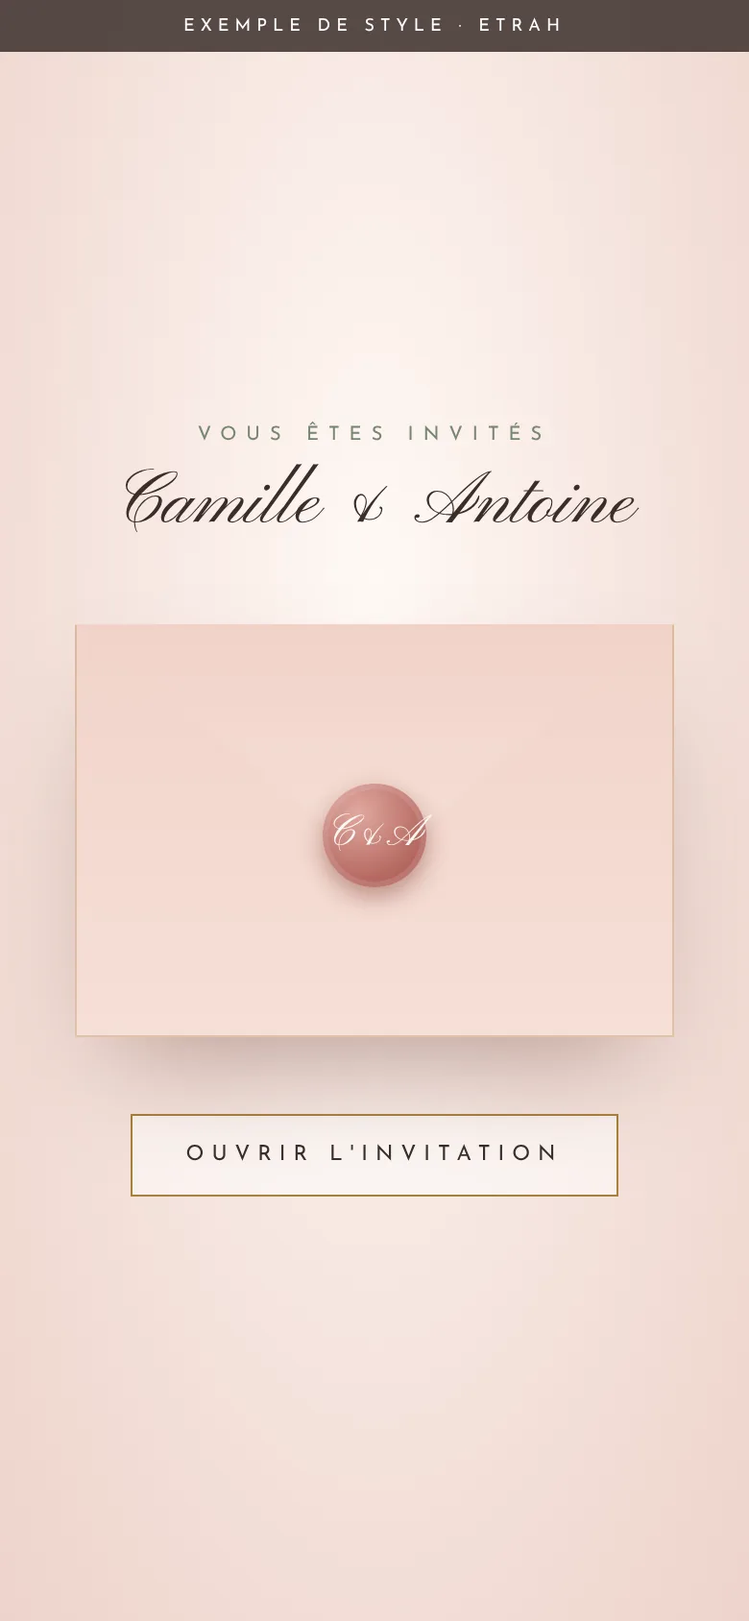
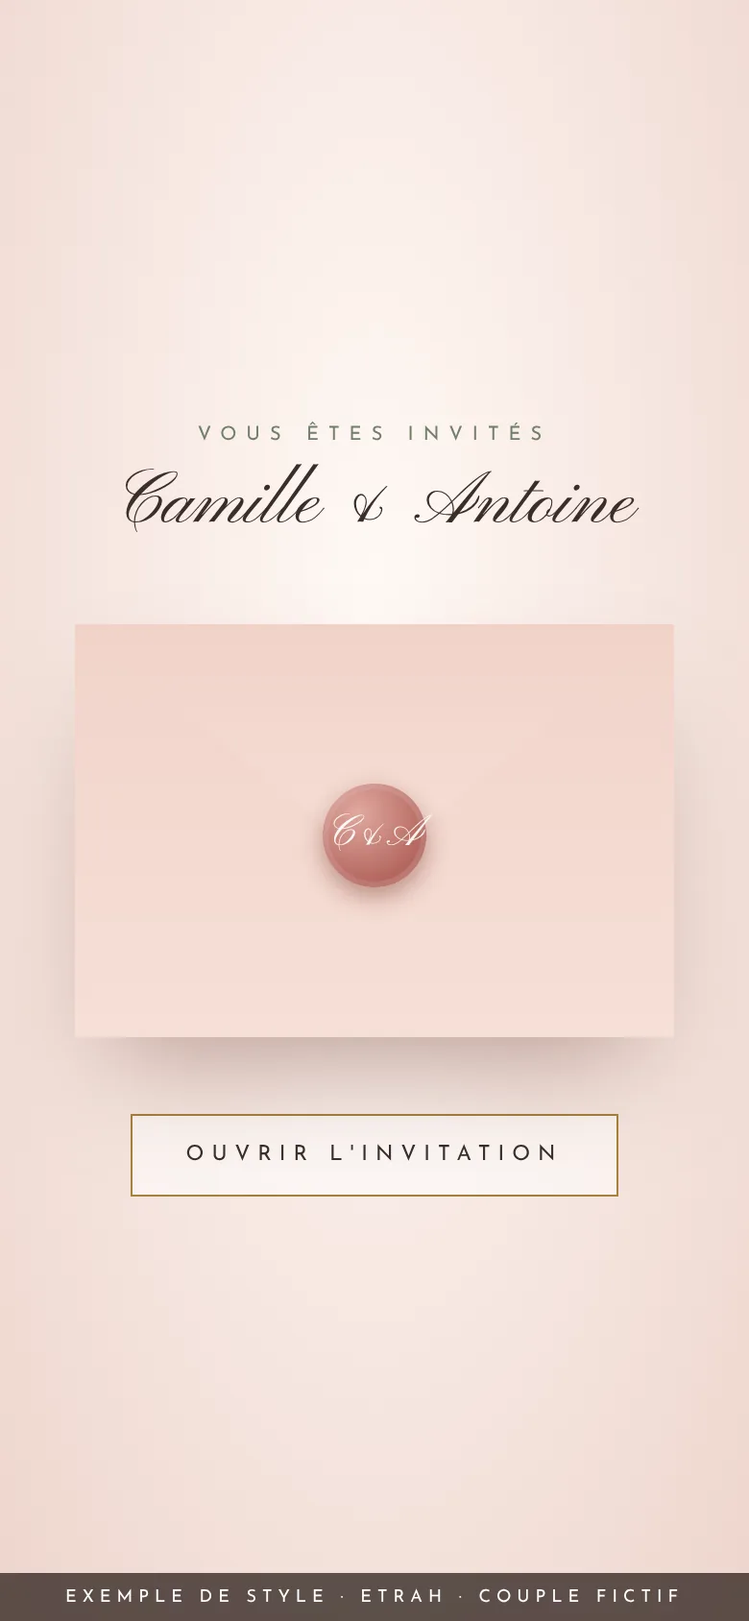
Rebuild romantic example as a full invitation site (arch frame, timeline, menu, dress code, hotels, RSVP)
Claude-Session: https://claude.ai/code/session_01EQMxFqz27Wc8jiHy65ghqU

Changed region(s): [[0.0, 0.955, 1.0, 1.0], [0.0, 0.0, 1.0, 0.0308]]

diff --git a/exemple-romantique.html b/exemple-romantique.html
@@ -10,27 +10,39 @@
 @font-face{font-family:'Cormorant Garamond';font-style:italic;font-weight:300 600;font-display:swap;src:url(fonts/cormorant-italic.woff) format('woff')}
 @font-face{font-family:'Josefin Sans';font-style:normal;font-weight:300 600;font-display:swap;src:url(fonts/josefin.woff) format('woff')}
 @font-face{font-family:'Pinyon Script';font-style:normal;font-weight:400;font-display:swap;src:url(fonts/pinyon.woff) format('woff')}
-:root{--ivory:#fbf6f0;--paper:#fffdf9;--blush:#f2ddd6;--blush2:#e8c9c0;--rose:#b3665e;--sage:#76866f;--ink:#3a2e2a;--ink2:#665650;--gold:#a8823a;--gold2:#cfa95a}
+:root{--ivory:#fbf7f2;--paper:#fffdf9;--blush:#f3e0d9;--blush2:#e8c9c0;--rose:#b3665e;--sage:#6f7f68;--deep:#3d4a3a;--ink:#3a2e2a;--ink2:#665650;--gold:#a8823a;--gold2:#d3ae63}
 *{box-sizing:border-box;margin:0;padding:0}
 html{scroll-behavior:smooth}
 body{background:var(--ivory);color:var(--ink);font-family:'Cormorant Garamond',serif;font-size:18px;line-height:1.7;overflow-x:hidden}
 body.lock{overflow:hidden;height:100vh}
-.tag{position:fixed;top:0;left:0;right:0;z-index:60;text-align:center;font-family:'Josefin Sans',sans-serif;font-size:9px;letter-spacing:3px;text-transform:uppercase;color:#fff;background:rgba(58,46,42,.85);padding:6px 8px}
+.tag{position:fixed;bottom:0;left:0;right:0;z-index:70;text-align:center;font-family:'Josefin Sans',sans-serif;font-size:9px;letter-spacing:3px;text-transform:uppercase;color:#fff;background:rgba(58,46,42,.82);padding:5px 8px}
 svg.br{position:absolute;pointer-events:none;color:var(--sage)}
+.ico{width:22px;height:22px;fill:none;stroke:currentColor;stroke-width:1.3;stroke-linecap:round;stroke-linejoin:round}
+
+/* ── Barre ── */
+.bar{position:fixed;top:0;left:0;right:0;z-index:40;display:flex;justify-content:space-between;align-items:center;padding:12px 18px;background:linear-gradient(to bottom,rgba(251,247,242,.95),rgba(251,247,242,0));opacity:0;transition:opacity .8s}
+body:not(.lock) .bar{opacity:1}
+.mono{font-family:'Pinyon Script',cursive;font-size:26px;color:var(--ink);text-decoration:none}
+.mbtn{width:42px;height:42px;border:1px solid rgba(168,130,58,.5);border-radius:50%;background:rgba(255,253,249,.8);cursor:pointer;display:grid;place-items:center}
+.mbtn i{display:block;width:16px;height:1px;background:var(--ink);box-shadow:0 5px 0 var(--ink),0 -5px 0 var(--ink)}
+.menu{position:fixed;inset:0;z-index:45;background:rgba(251,247,242,.97);display:flex;flex-direction:column;align-items:center;justify-content:center;gap:6px;opacity:0;visibility:hidden;transition:opacity .4s,visibility .4s}
+.menu.on{opacity:1;visibility:visible}
+.menu a{font-family:'Cormorant Garamond',serif;font-size:30px;color:var(--ink);text-decoration:none;padding:6px 14px}
+.menu a:hover{color:var(--rose)}
+.menu button{position:absolute;top:14px;right:18px;width:42px;height:42px;border-radius:50%;border:1px solid rgba(168,130,58,.5);background:none;font-size:22px;cursor:pointer;color:var(--ink)}
 
 /* ── Enveloppe ── */
-#env{position:fixed;inset:0;z-index:50;background:radial-gradient(ellipse at 50% 38%,#fffaf6 0%,var(--blush) 70%,var(--blush2) 130%);display:flex;flex-direction:column;align-items:center;justify-content:center;gap:40px;transition:opacity 1.1s ease .2s,visibility 1.3s}
+#env{position:fixed;inset:0;z-index:60;background:radial-gradient(ellipse at 50% 38%,#fffaf6 0%,var(--blush) 70%,var(--blush2) 130%);display:flex;flex-direction:column;align-items:center;justify-content:center;gap:40px;transition:opacity 1.1s ease .2s,visibility 1.3s}
 #env.gone{opacity:0;visibility:hidden}
 .scene{perspective:1200px;position:relative;width:min(320px,80vw);aspect-ratio:1.45}
-.env{position:absolute;inset:0;transform-style:preserve-3d}
+.env{position:absolute;inset:0}
 .back{position:absolute;inset:0;background:linear-gradient(160deg,#f3d9d1,#ecc9bf);border-radius:3px;box-shadow:0 30px 60px -22px rgba(110,60,50,.5)}
 .letter{position:absolute;left:7%;right:7%;bottom:6%;height:88%;background:var(--paper);border:1px solid rgba(168,130,58,.35);display:flex;flex-direction:column;align-items:center;justify-content:center;text-align:center;transition:transform 1.1s cubic-bezier(.5,0,.2,1) .7s;padding:10px;z-index:2}
 .letter .l1{font-family:'Josefin Sans',sans-serif;font-size:8px;letter-spacing:4px;text-transform:uppercase;color:var(--sage)}
 .letter .l2{font-family:'Pinyon Script',cursive;font-size:30px;line-height:1.1;color:var(--ink);margin:6px 0}
 .letter .l3{font-family:'Josefin Sans',sans-serif;font-size:8px;letter-spacing:3px;text-transform:uppercase;color:var(--ink2)}
-.front{position:absolute;inset:0;z-index:3;background:linear-gradient(to top,#f6dfd7,#f1d3c9);clip-path:polygon(0 0,50% 56%,100% 0,100% 100%,0 100%);box-shadow:inset 0 0 0 1px rgba(168,130,58,.3)}
-.front2{position:absolute;inset:0;z-index:3;background:linear-gradient(135deg,#f3d6cc,#efcdc2);clip-path:polygon(0 0,0 100%,52% 56%);opacity:.0}
-.flap{position:absolute;left:0;right:0;top:0;height:58%;z-index:4;background:linear-gradient(to bottom,#f1d2c8,#f6dfd7);clip-path:polygon(0 0,100% 0,50% 100%);transform-origin:top;transition:transform .9s cubic-bezier(.6,0,.2,1),z-index 0s .45s;box-shadow:0 2px 0 rgba(168,130,58,.35)}
+.front{position:absolute;inset:0;z-index:3;background:linear-gradient(to top,#f6dfd7,#f1d3c9);clip-path:polygon(0 0,50% 56%,100% 0,100% 100%,0 100%)}
+.flap{position:absolute;left:0;right:0;top:0;height:58%;z-index:4;background:linear-gradient(to bottom,#f1d2c8,#f6dfd7);clip-path:polygon(0 0,100% 0,50% 100%);transform-origin:top;transition:transform .9s cubic-bezier(.6,0,.2,1),z-index 0s .45s}
 .seal{position:absolute;left:50%;top:51%;width:54px;height:54px;margin:-27px 0 0 -27px;border-radius:50%;z-index:5;background:radial-gradient(circle at 34% 28%,#e0a89f,var(--rose) 70%);display:grid;place-items:center;color:rgba(255,255,255,.92);font-family:'Pinyon Script',cursive;font-size:23px;box-shadow:0 5px 12px rgba(120,50,40,.45),inset 0 0 0 3px rgba(255,255,255,.12);transition:opacity .35s,transform .5s}
 .opening .flap{transform:rotateX(180deg);z-index:1}
 .opening .seal{opacity:0;transform:scale(.6)}
@@ -41,60 +53,114 @@ svg.br{position:absolute;pointer-events:none;color:var(--sage)}
 .env-btn:hover,.env-btn:focus-visible{background:var(--gold);color:#fff;outline:none}
 .opening .env-btn,.opening .env-names{opacity:0}
 
-/* ── Pétales ── */
+/* ── Hero ── */
+section{padding:96px 24px;text-align:center;position:relative;overflow:hidden}
+.hero{min-height:100vh;display:flex;flex-direction:column;justify-content:center;align-items:center;background:radial-gradient(ellipse at 50% 30%,#fffdf9 0%,var(--ivory) 55%,var(--blush) 160%);padding:90px 24px}
+.hero .frame{position:absolute;left:16px;right:16px;top:16px;bottom:16px;border:1px solid rgba(168,130,58,.4);border-radius:999px 999px 0 0;pointer-events:none}
+.hero .frame::before{content:"";position:absolute;inset:9px;border:1px solid rgba(168,130,58,.22);border-radius:999px 999px 0 0}
+.corner{position:absolute;width:34px;height:34px;border:1px solid var(--gold);opacity:.7}
+.c1{left:16px;bottom:16px;border-width:0 0 1px 1px}.c2{right:16px;bottom:16px;border-width:0 1px 1px 0}
 .petals{position:absolute;inset:0;overflow:hidden;pointer-events:none}
-.petals i{position:absolute;top:-30px;width:14px;height:18px;background:radial-gradient(circle at 30% 30%,#f7e1db,var(--blush2));border-radius:80% 0 80% 0;opacity:.75;animation:fall linear infinite}
+.petals i{position:absolute;top:-30px;background:radial-gradient(circle at 30% 30%,#f7e1db,var(--blush2));border-radius:80% 0 80% 0;opacity:.75;animation:fall linear infinite}
 @keyframes fall{0%{transform:translate3d(0,-30px,0) rotate(0)}50%{transform:translate3d(30px,52vh,0) rotate(180deg)}100%{transform:translate3d(-20px,108vh,0) rotate(360deg)}}
-
-/* ── Sections ── */
-section{padding:92px 24px;text-align:center;position:relative;overflow:hidden}
-.hero{min-height:100vh;display:flex;flex-direction:column;justify-content:center;align-items:center;background:radial-gradient(ellipse at 50% 28%,#fffdf9 0%,var(--ivory) 58%,var(--blush) 150%);padding-top:100px}
 .hero .in{position:relative;z-index:2}
-.save{font-family:'Josefin Sans',sans-serif;font-size:11px;letter-spacing:7px;text-transform:uppercase;color:var(--sage);margin-bottom:10px}
-.names{font-family:'Pinyon Script',cursive;font-size:clamp(58px,16vw,100px);line-height:1;color:var(--ink);margin:14px 0}
-.amp{font-family:'Cormorant Garamond',serif;font-style:italic;color:var(--rose);font-size:.38em;display:block;margin:6px 0}
-.lead{font-style:italic;font-size:20px;color:var(--ink2);max-width:360px;margin:6px auto 0}
-.date{display:inline-flex;align-items:center;gap:16px;margin-top:34px;font-family:'Josefin Sans',sans-serif;font-size:12px;letter-spacing:5px;text-transform:uppercase;color:var(--ink)}
+.save{font-family:'Josefin Sans',sans-serif;font-size:11px;letter-spacing:7px;text-transform:uppercase;color:var(--sage)}
+.names{font-family:'Pinyon Script',cursive;font-size:clamp(60px,17vw,104px);line-height:1;color:var(--ink);margin:16px 0}
+.amp{font-family:'Cormorant Garamond',serif;font-style:italic;color:var(--rose);font-size:.36em;display:block;margin:8px 0}
+.lead{font-style:italic;font-size:20px;color:var(--ink2);max-width:330px;margin:6px auto 0}
+.date{display:inline-flex;align-items:center;gap:16px;margin-top:34px;font-family:'Josefin Sans',sans-serif;font-size:12px;letter-spacing:5px;text-transform:uppercase}
 .date b{display:block;width:1px;height:34px;background:var(--gold)}
 .date span{text-align:center;line-height:1.7}
-.orn{display:flex;align-items:center;justify-content:center;gap:12px;margin:26px 0 30px}
+.scroll{margin-top:40px;font-family:'Josefin Sans',sans-serif;font-size:9px;letter-spacing:5px;text-transform:uppercase;color:var(--ink2)}
+.scroll::after{content:"";display:block;width:1px;height:38px;margin:10px auto 0;background:linear-gradient(var(--gold),transparent)}
+
+/* ── Titres ── */
+.orn{display:flex;align-items:center;justify-content:center;gap:12px;margin:22px 0 34px}
 .orn i{width:56px;height:1px;background:linear-gradient(to right,transparent,var(--gold))}
 .orn i:last-child{transform:scaleX(-1)}
 .orn b{width:6px;height:6px;border:1px solid var(--gold);transform:rotate(45deg)}
-h2{font-weight:400;font-size:clamp(32px,8.4vw,46px);line-height:1.14}
+h2{font-weight:400;font-size:clamp(32px,8.6vw,46px);line-height:1.14}
 h2 em{color:var(--rose)}
 .eb{font-family:'Josefin Sans',sans-serif;font-size:10px;letter-spacing:6px;text-transform:uppercase;color:var(--sage);margin-bottom:14px}
 .alt{background:var(--paper)}
-.arch{position:absolute;left:50%;top:-1px;transform:translateX(-50%);width:120px;height:26px;background:var(--ivory);border-radius:0 0 120px 120px}
-.alt .arch{background:var(--ivory)}
-.cd{display:flex;justify-content:center;gap:14px;margin-top:10px}
-.cd div{width:80px;padding:20px 4px 16px;background:var(--paper);border:1px solid rgba(168,130,58,.3);border-radius:46px 46px 4px 4px;box-shadow:0 14px 26px -18px rgba(110,60,50,.5)}
-.cd b{display:block;font-size:36px;font-weight:400;color:var(--rose);line-height:1}
-.cd span{font-family:'Josefin Sans',sans-serif;font-size:9px;letter-spacing:3px;text-transform:uppercase;color:var(--ink2)}
-.prog{max-width:440px;margin:34px auto 0;text-align:left;position:relative;padding-left:34px}
-.prog::before{content:"";position:absolute;left:5px;top:10px;bottom:10px;width:1px;background:linear-gradient(to bottom,transparent,var(--gold) 12%,var(--gold) 88%,transparent)}
-.prog div{position:relative;padding:14px 0 22px}
-.prog div::before{content:"";position:absolute;left:-34px;top:22px;width:11px;height:11px;border:1px solid var(--gold);background:var(--ivory);transform:rotate(45deg)}
+.deep{background:var(--deep);color:#f4ede4}
+.deep h2 em{color:#e6b9ae}.deep .eb{color:#b9c6b1}.deep .orn i{background:linear-gradient(to right,transparent,var(--gold2))}.deep .orn i:last-child{transform:scaleX(-1)}.deep .orn b{border-color:var(--gold2)}
+.blushbg{background:linear-gradient(var(--ivory),var(--blush))}
+
+/* ── Compte à rebours ── */
+.cd{display:flex;justify-content:center;gap:12px}
+.cd div{width:78px;padding:20px 4px 16px;border:1px solid rgba(211,174,99,.55);border-radius:46px 46px 4px 4px;background:rgba(255,255,255,.05)}
+.cd b{display:block;font-size:36px;font-weight:400;color:#f4ede4;line-height:1}
+.cd span{font-family:'Josefin Sans',sans-serif;font-size:9px;letter-spacing:3px;text-transform:uppercase;color:#b9c6b1}
+
+/* ── Programme ── */
+.prog{max-width:440px;margin:10px auto 0;text-align:left;position:relative;padding-left:62px}
+.prog::before{content:"";position:absolute;left:22px;top:20px;bottom:20px;width:1px;background:linear-gradient(to bottom,transparent,var(--gold) 10%,var(--gold) 90%,transparent)}
+.prog div{position:relative;padding:8px 0 26px}
+.prog .dot{position:absolute;left:-62px;top:6px;width:44px;height:44px;border-radius:50%;background:var(--ivory);border:1px solid var(--gold);display:grid;place-items:center;color:var(--gold)}
 .prog time{font-family:'Josefin Sans',sans-serif;font-size:12px;letter-spacing:3px;color:var(--gold)}
-.prog strong{display:block;font-weight:500;font-size:24px;line-height:1.2}
-.prog span{color:var(--ink2);font-style:italic;font-size:17px}
-.card{max-width:440px;margin:30px auto 0;padding:44px 28px 34px;border:1px solid rgba(168,130,58,.35);border-radius:200px 200px 4px 4px;background:var(--ivory);position:relative}
-.card p{color:var(--ink2)}
-.card .pin{font-family:'Pinyon Script',cursive;font-size:34px;color:var(--rose);line-height:1;margin-bottom:6px}
-form{max-width:440px;margin:30px auto 0;text-align:left}
+.prog strong{display:block;font-weight:500;font-size:25px;line-height:1.2}
+.prog span.d{color:var(--ink2);font-style:italic;font-size:17px}
+
+/* ── Lieu ── */
+.card{max-width:440px;margin:0 auto;padding:46px 26px 30px;border:1px solid rgba(168,130,58,.35);border-radius:200px 200px 4px 4px;background:var(--ivory)}
+.card .pin{font-family:'Pinyon Script',cursive;font-size:36px;color:var(--rose);line-height:1}
+.card p{color:var(--ink2);margin-top:6px}
+.badges{display:grid;grid-template-columns:1fr 1fr;gap:10px;max-width:440px;margin:14px auto 0}
+.badges div{padding:16px 10px;border:1px solid rgba(168,130,58,.28);background:var(--ivory)}
+.badges b{display:block;font-weight:500;font-size:22px;color:var(--rose);line-height:1.1}
+.badges span{font-family:'Josefin Sans',sans-serif;font-size:9px;letter-spacing:3px;text-transform:uppercase;color:var(--ink2)}
+
+/* ── Menu ── */
+.menu-l{max-width:440px;margin:0 auto;text-align:left}
+.menu-l h3{font-family:'Josefin Sans',sans-serif;font-weight:400;font-size:11px;letter-spacing:5px;text-transform:uppercase;color:var(--gold);margin:30px 0 8px;padding-bottom:10px;border-bottom:1px solid rgba(168,130,58,.3)}
+.menu-l p{padding:10px 0;border-bottom:1px solid rgba(168,130,58,.14);font-size:21px;font-weight:500;line-height:1.3}
+.menu-l p small{display:block;font-size:16px;font-style:italic;font-weight:400;color:var(--ink2)}
+
+/* ── Dress code ── */
+.dc{display:grid;grid-template-columns:1fr 1fr;gap:14px;max-width:440px;margin:0 auto}
+.dc div{border:1px solid rgba(211,174,99,.45);padding:24px 14px;background:rgba(255,255,255,.04)}
+.dc h3{font-family:'Josefin Sans',sans-serif;font-weight:400;font-size:10px;letter-spacing:5px;text-transform:uppercase;color:#e6b9ae;margin-bottom:10px}
+.dc p{font-size:17px;line-height:1.5;color:#e9e0d4}
+.sw{display:flex;justify-content:center;gap:10px;margin-top:30px}
+.sw i{width:30px;height:30px;border-radius:50%;border:1px solid rgba(255,255,255,.35)}
+
+/* ── Infos ── */
+.inf{display:grid;grid-template-columns:1fr 1fr;gap:12px;max-width:440px;margin:0 auto;text-align:left}
+.inf div{padding:22px 18px;background:var(--paper);border:1px solid rgba(168,130,58,.25)}
+.inf .ico{color:var(--rose);margin-bottom:8px}
+.inf b{display:block;font-weight:500;font-size:21px;line-height:1.2}
+.inf span{font-size:16px;font-style:italic;color:var(--ink2);line-height:1.4;display:block;margin-top:4px}
+
+/* ── Hôtels ── */
+.ht{max-width:440px;margin:0 auto;text-align:left}
+.ht div{display:flex;justify-content:space-between;align-items:center;gap:14px;padding:18px 0;border-bottom:1px solid rgba(168,130,58,.28)}
+.ht strong{font-weight:500;font-size:22px;display:block;line-height:1.2}
+.ht span{font-size:16px;font-style:italic;color:var(--ink2)}
+.ht em{font-style:normal;font-family:'Josefin Sans',sans-serif;font-size:10px;letter-spacing:2px;text-transform:uppercase;color:var(--gold);border:1px solid rgba(168,130,58,.5);padding:8px 12px;white-space:nowrap}
+.note{font-family:'Josefin Sans',sans-serif;font-size:9px;letter-spacing:2px;text-transform:uppercase;color:var(--ink2);margin-top:16px}
+
+/* ── RSVP ── */
+form{max-width:440px;margin:0 auto;text-align:left}
 label{display:block;font-family:'Josefin Sans',sans-serif;font-size:10px;letter-spacing:3px;text-transform:uppercase;color:var(--ink2);margin:20px 0 7px}
-input,textarea{width:100%;font:inherit;font-size:18px;color:var(--ink);background:var(--paper);border:0;border-bottom:1px solid rgba(168,130,58,.5);padding:11px 4px;border-radius:0}
+input[type=text],input[type=tel],textarea{width:100%;font:inherit;font-size:18px;color:var(--ink);background:var(--paper);border:0;border-bottom:1px solid rgba(168,130,58,.5);padding:11px 4px;border-radius:0}
 textarea{border:1px solid rgba(168,130,58,.35);padding:12px}
 input:focus,textarea:focus{outline:none;border-color:var(--rose);box-shadow:0 1px 0 var(--rose)}
+.cnt{display:flex;border:1px solid rgba(168,130,58,.4);background:var(--paper)}
+.cnt button{width:54px;border:0;background:none;font-size:24px;cursor:pointer;color:var(--ink)}
+.cnt output{flex:1;text-align:center;font-size:24px;line-height:50px}
 .choice{display:flex;gap:10px;margin-top:6px}
-.choice label{flex:1;margin:0;padding:14px 8px;text-align:center;border:1px solid rgba(168,130,58,.35);background:var(--paper);cursor:pointer;letter-spacing:1px;text-transform:none;font-family:'Cormorant Garamond',serif;font-size:18px;color:var(--ink);transition:background .3s}
+.choice label{flex:1;margin:0;padding:14px 8px;text-align:center;border:1px solid rgba(168,130,58,.35);background:var(--paper);cursor:pointer;letter-spacing:1px;text-transform:none;font-family:'Cormorant Garamond',serif;font-size:18px;color:var(--ink)}
 .choice input{display:none}
 .choice label:has(input:checked){background:var(--blush);border-color:var(--rose)}
 .send{width:100%;margin-top:28px;font-family:'Josefin Sans',sans-serif;font-size:11px;letter-spacing:4px;text-transform:uppercase;color:#fff;background:var(--rose);border:0;padding:17px;cursor:pointer;transition:background .3s}
 .send:hover{background:#9d554e}
-.thanks{display:none;max-width:440px;margin:30px auto 0;padding:28px;border:1px solid var(--sage);color:var(--sage);font-style:italic;font-size:21px}
-.foot{padding:60px 24px 80px;background:var(--blush);color:var(--ink2);font-style:italic;text-align:center;position:relative;overflow:hidden}
-.foot .n{font-family:'Pinyon Script',cursive;font-style:normal;font-size:40px;color:var(--ink)}
+.dl{text-align:center;font-family:'Josefin Sans',sans-serif;font-size:10px;letter-spacing:3px;text-transform:uppercase;color:var(--ink2);margin-top:18px}
+.thanks{display:none;max-width:440px;margin:0 auto;padding:28px;border:1px solid var(--sage);color:var(--sage);font-style:italic;font-size:21px}
+
+.foot{padding:70px 24px 80px;background:var(--blush);color:var(--ink2);font-style:italic;text-align:center;position:relative;overflow:hidden}
+.foot q{display:block;font-size:22px;max-width:320px;margin:0 auto 26px;quotes:none}
+.foot .n{font-family:'Pinyon Script',cursive;font-style:normal;font-size:42px;color:var(--ink)}
 .foot small{display:block;margin-top:14px;font-family:'Josefin Sans',sans-serif;font-style:normal;font-size:10px;letter-spacing:3px;text-transform:uppercase}
 .rv{opacity:0;transform:translateY(20px);transition:opacity 1s ease,transform 1s ease}
 .rv.in{opacity:1;transform:none}
@@ -104,101 +170,157 @@ input:focus,textarea:focus{outline:none;border-color:var(--rose);box-shadow:0 1p
 </style>
 </head>
 <body class="lock">
-<div class="tag">Exemple de style · Etrah</div>
+<div class="tag">Exemple de style · Etrah · couple fictif</div>
 
 <svg width="0" height="0" style="position:absolute" aria-hidden="true"><defs>
 <symbol id="branch" viewBox="0 0 200 260"><g fill="none" stroke="currentColor" stroke-width="1.2" stroke-linecap="round"><path d="M180 250C150 190 120 130 70 70C50 46 30 26 14 10"/><path d="M150 205c18-8 30-22 34-38"/><path d="M122 160c-16-6-28-20-30-36"/><path d="M96 118c16-4 30-16 36-32"/><path d="M70 78c-14-6-24-20-26-34"/></g><g fill="currentColor" fill-opacity=".18" stroke="currentColor" stroke-width=".9" stroke-opacity=".65"><ellipse cx="174" cy="176" rx="13" ry="6" transform="rotate(-50 174 176)"/><ellipse cx="96" cy="130" rx="13" ry="6" transform="rotate(50 96 130)"/><ellipse cx="136" cy="98" rx="13" ry="6" transform="rotate(-40 136 98)"/><ellipse cx="52" cy="58" rx="12" ry="5.5" transform="rotate(55 52 58)"/><ellipse cx="34" cy="26" rx="11" ry="5" transform="rotate(-35 34 26)"/></g></symbol>
 </defs></svg>
 
+<header class="bar"><a class="mono" href="#top">C&amp;A</a><button class="mbtn" id="mb" aria-label="Menu"><i></i></button></header>
+<nav class="menu" id="menu" aria-label="Sections"><button id="mc" aria-label="Fermer">×</button>
+<a href="#programme">Programme</a><a href="#lieu">Le lieu</a><a href="#menu-repas">Menu</a><a href="#tenue">Dress code</a><a href="#infos">Infos pratiques</a><a href="#hotels">Hébergements</a><a href="#rsvp">Confirmer</a></nav>
+
 <div id="env" role="dialog" aria-label="Invitation de mariage">
   <div class="env-names"><small>Vous êtes invités</small>Camille &amp; Antoine</div>
-  <div class="scene" id="scene">
-    <div class="env">
-      <div class="back"></div>
-      <div class="letter"><span class="l1">Save the date</span><span class="l2">Camille &amp; Antoine</span><span class="l3">12 · 06 · 2027</span></div>
-      <div class="front"></div>
-      <div class="flap"></div>
-      <div class="seal">C&amp;A</div>
-    </div>
-  </div>
+  <div class="scene" id="scene"><div class="env">
+    <div class="back"></div>
+    <div class="letter"><span class="l1">Save the date</span><span class="l2">Camille &amp; Antoine</span><span class="l3">12 · 06 · 2027</span></div>
+    <div class="front"></div><div class="flap"></div><div class="seal">C&amp;A</div>
+  </div></div>
   <button class="env-btn" id="open" type="button">Ouvrir l'invitation</button>
 </div>
 
-<section class="hero">
-  <svg class="br draw" style="left:-18px;top:60px;width:150px;transform:scaleX(-1)" viewBox="0 0 200 260"><use href="#branch"/></svg>
-  <svg class="br draw" style="right:-18px;bottom:30px;width:150px;transform:rotate(180deg)" viewBox="0 0 200 260"><use href="#branch"/></svg>
+<section class="hero" id="top">
+  <div class="frame"></div><div class="corner c1"></div><div class="corner c2"></div>
+  <svg class="br draw" style="left:-6px;top:90px;width:140px;transform:scaleX(-1)" viewBox="0 0 200 260"><use href="#branch"/></svg>
+  <svg class="br draw" style="right:-6px;bottom:80px;width:140px;transform:rotate(180deg)" viewBox="0 0 200 260"><use href="#branch"/></svg>
   <div class="petals" id="petals"></div>
   <div class="in">
     <p class="save rv">Save the date</p>
     <h1 class="names rv">Camille<span class="amp">&amp;</span>Antoine</h1>
     <p class="lead rv">ont la joie de vous inviter à célébrer leur mariage</p>
     <div class="date rv"><span>Samedi<br>12 juin</span><b></b><span>2027<br>Votre lieu</span></div>
+    <p class="scroll rv">Découvrir</p>
   </div>
 </section>
 
-<section class="alt">
-  <div class="arch"></div>
+<section class="deep">
   <p class="eb rv">Le grand jour approche</p>
   <h2 class="rv">Plus que <em>quelques jours</em></h2>
   <div class="orn rv"><i></i><b></b><i></i></div>
   <div class="cd rv"><div><b id="d">0</b><span>Jours</span></div><div><b id="h">0</b><span>Heures</span></div><div><b id="m">0</b><span>Min</span></div></div>
 </section>
 
-<section>
+<section id="programme">
   <p class="eb rv">Le déroulé</p>
   <h2 class="rv">Le <em>programme</em></h2>
   <div class="orn rv"><i></i><b></b><i></i></div>
   <div class="prog rv">
-    <div><time>15:00</time><strong>Cérémonie</strong><span>Dans les jardins, sous les arches fleuries</span></div>
-    <div><time>17:00</time><strong>Cocktail</strong><span>Rafraîchissements et douceurs</span></div>
-    <div><time>19:30</time><strong>Dîner</strong><span>Table dressée sous les guirlandes</span></div>
-    <div><time>22:00</time><strong>Soirée dansante</strong><span>Jusqu'au bout de la nuit</span></div>
+    <div><span class="dot"><svg class="ico" viewBox="0 0 24 24"><circle cx="9" cy="14" r="5"/><circle cx="15" cy="14" r="5"/><path d="M12 5l-2 3h4z"/></svg></span><time>15:00</time><strong>Cérémonie</strong><span class="d">Dans les jardins, sous les arches fleuries</span></div>
+    <div><span class="dot"><svg class="ico" viewBox="0 0 24 24"><path d="M7 3h10l-1 7a4 4 0 0 1-8 0z"/><path d="M12 14v7M8 21h8"/></svg></span><time>17:00</time><strong>Cocktail</strong><span class="d">Rafraîchissements et douceurs</span></div>
+    <div><span class="dot"><svg class="ico" viewBox="0 0 24 24"><path d="M6 3v7a2 2 0 0 0 4 0V3M8 10v11M17 3c-2 2-3 5-3 8h3v10"/></svg></span><time>19:30</time><strong>Dîner</strong><span class="d">Table dressée sous les guirlandes</span></div>
+    <div><span class="dot"><svg class="ico" viewBox="0 0 24 24"><path d="M9 18V6l10-2v12"/><circle cx="7" cy="18" r="2.5"/><circle cx="17" cy="16" r="2.5"/></svg></span><time>22:00</time><strong>Soirée dansante</strong><span class="d">Jusqu'au bout de la nuit</span></div>
   </div>
 </section>
 
-<section class="alt">
+<section class="alt" id="lieu">
   <p class="eb rv">Où nous retrouver</p>
   <h2 class="rv">Le <em>lieu</em></h2>
   <div class="orn rv"><i></i><b></b><i></i></div>
-  <div class="card rv"><div class="pin">Votre domaine</div><p>Votre adresse, votre plan d'accès, vos hôtels conseillés et vos informations pratiques apparaissent ici, sur mesure.</p></div>
+  <div class="card rv"><div class="pin">Votre domaine</div><p>Votre adresse et votre plan d'accès apparaissent ici, avec un lien vers l'itinéraire.</p></div>
+  <div class="badges rv"><div><b>150</b><span>Invités</span></div><div><b>Gratuit</b><span>Parking</span></div><div><b>Voiturier</b><span>Disponible</span></div><div><b>PMR</b><span>Accessible</span></div></div>
 </section>
 
-<section>
+<section class="blushbg" id="menu-repas">
+  <p class="eb rv">Ce soir on se régale</p>
+  <h2 class="rv">Le <em>menu</em></h2>
+  <div class="orn rv"><i></i><b></b><i></i></div>
+  <div class="menu-l rv">
+    <h3>Pour commencer</h3>
+    <p>Velouté de petits pois<small>Crème de menthe, éclats de noisette</small></p>
+    <p>Tartare de saumon<small>Citron vert, aneth, pain grillé</small></p>
+    <h3>Plats</h3>
+    <p>Filet de bœuf rôti<small>Jus corsé, gratin dauphinois</small></p>
+    <p>Pavé de cabillaud<small>Beurre blanc, légumes de saison</small></p>
+    <h3>Douceurs</h3>
+    <p>Pièce montée<small>Vanille, fruits rouges</small></p>
+    <p>Buffet de mignardises<small>Macarons, tartelettes, chocolats</small></p>
+  </div>
+</section>
+
+<section class="deep" id="tenue">
+  <p class="eb rv">Pour être au diapason</p>
+  <h2 class="rv">Le <em>dress code</em></h2>
+  <div class="orn rv"><i></i><b></b><i></i></div>
+  <div class="dc rv"><div><h3>Elles</h3><p>Robe longue ou midi, tons pastel ou floraux</p></div><div><h3>Eux</h3><p>Costume clair ou sombre, cravate ou nœud papillon</p></div></div>
+  <div class="sw rv" aria-label="Palette"><i style="background:#f3e0d9"></i><i style="background:#c9a39a"></i><i style="background:#a9b69f"></i><i style="background:#f4ede4"></i><i style="background:#d3ae63"></i></div>
+</section>
+
+<section id="infos">
+  <p class="eb rv">Pour votre confort</p>
+  <h2 class="rv">Infos <em>pratiques</em></h2>
+  <div class="orn rv"><i></i><b></b><i></i></div>
+  <div class="inf rv">
+    <div><svg class="ico" viewBox="0 0 24 24"><rect x="3" y="7" width="18" height="10" rx="3"/><circle cx="8" cy="17" r="1.6"/><circle cx="16" cy="17" r="1.6"/></svg><b>Parking</b><span>Gratuit sur place, voiturier à l'arrivée</span></div>
+    <div><svg class="ico" viewBox="0 0 24 24"><circle cx="12" cy="8" r="3.5"/><path d="M5 21c0-4 3-7 7-7s7 3 7 7"/></svg><b>Enfants</b><span>Bienvenus, espace dédié avec animatrice</span></div>
+    <div><svg class="ico" viewBox="0 0 24 24"><rect x="3" y="6" width="18" height="13" rx="2"/><circle cx="12" cy="12.5" r="3.5"/></svg><b>Photos</b><span>Cérémonie sans téléphone, merci !</span></div>
+    <div><svg class="ico" viewBox="0 0 24 24"><rect x="4" y="9" width="16" height="11"/><path d="M12 9v11M4 13h16M12 9c-3 0-4-4-1-4 2 0 1 4 1 4zM12 9c3 0 4-4 1-4-2 0-1 4-1 4z"/></svg><b>Cadeaux</b><span>Une urne sera à votre disposition</span></div>
+  </div>
+</section>
+
+<section class="alt" id="hotels">
+  <p class="eb rv">Pour dormir sur place</p>
+  <h2 class="rv"><em>Hébergements</em></h2>
+  <div class="orn rv"><i></i><b></b><i></i></div>
+  <div class="ht rv">
+    <div><p><strong>Maison des Lilas</strong><span>★★★★ · 5 min · dès 140 €</span></p><em>Réserver</em></div>
+    <div><p><strong>Auberge du Verger</strong><span>★★★ · 10 min · dès 95 €</span></p><em>Réserver</em></div>
+    <div><p><strong>Hôtel des Tilleuls</strong><span>★★★ · 15 min · dès 80 €</span></p><em>Réserver</em></div>
+  </div>
+  <p class="note rv">Noms et tarifs fictifs · à remplacer par les vôtres</p>
+</section>
+
+<section id="rsvp">
   <p class="eb rv">Réponse souhaitée</p>
   <h2 class="rv">Confirmez <em>votre présence</em></h2>
   <div class="orn rv"><i></i><b></b><i></i></div>
   <form class="rv" id="f">
-    <label for="n">Prénom &amp; nom</label><input id="n" autocomplete="name">
+    <label for="n">Prénom &amp; nom</label><input type="text" id="n" autocomplete="name">
+    <label for="tl">Téléphone / WhatsApp</label><input type="tel" id="tl" autocomplete="tel">
+    <label>Nombre de personnes</label>
+    <div class="cnt"><button type="button" id="mn" aria-label="Moins">−</button><output id="c">1</output><button type="button" id="pl" aria-label="Plus">+</button></div>
     <label>Serez-vous des nôtres ?</label>
     <div class="choice"><label><input type="radio" name="p" checked>Avec joie</label><label><input type="radio" name="p">Avec regret</label></div>
     <label for="t">Un mot pour les mariés</label><textarea id="t" rows="3"></textarea>
-    <button class="send" type="submit">Confirmer</button>
+    <button class="send" type="submit">Confirmer ma présence</button>
+    <p class="dl">Réponse avant le 1<sup>er</sup> mai 2027</p>
   </form>
   <p class="thanks" id="ok">Merci ! Dans un vrai site, la réponse est enregistrée et envoyée aux mariés.</p>
 </section>
 
 <div class="foot">
-  <svg class="br" style="left:50%;top:-30px;width:90px;margin-left:-45px;opacity:.5" viewBox="0 0 200 260"><use href="#branch"/></svg>
+  <q>Deux histoires, un seul chemin.</q>
   <div class="n">Camille &amp; Antoine</div>
   <small>Exemple de style créé par Etrah · couple fictif</small>
 </div>
 
 <script>
 (function(){
-var env=document.getElementById('env'),scene=document.getElementById('scene');
-document.getElementById('open').addEventListener('click',function(){
-  env.classList.add('opening');scene.classList.add('opening');
-  setTimeout(function(){env.classList.add('gone');document.body.classList.remove('lock')},2100);
-});
-var P=document.getElementById('petals');
-if(!(window.matchMedia&&matchMedia('(prefers-reduced-motion:reduce)').matches)){
-for(var i=0;i<14;i++){var e=document.createElement('i');e.style.left=(Math.random()*100)+'%';e.style.animationDuration=(9+Math.random()*9)+'s';e.style.animationDelay=(-Math.random()*14)+'s';e.style.width=(9+Math.random()*9)+'px';e.style.height=(12+Math.random()*10)+'px';P.appendChild(e)}}
-var io=new IntersectionObserver(function(es){es.forEach(function(x){if(x.isIntersecting){x.target.classList.add('in');io.unobserve(x.target)}})},{threshold:.15});
+var $=function(i){return document.getElementById(i)};
+var env=$('env'),scene=$('scene');
+$('open').addEventListener('click',function(){env.classList.add('opening');scene.classList.add('opening');setTimeout(function(){env.classList.add('gone');document.body.classList.remove('lock')},2100)});
+var P=$('petals');
+if(!(window.matchMedia&&matchMedia('(prefers-reduced-motion:reduce)').matches)){for(var i=0;i<14;i++){var e=document.createElement('i');e.style.left=(Math.random()*100)+'%';e.style.animationDuration=(9+Math.random()*9)+'s';e.style.animationDelay=(-Math.random()*14)+'s';e.style.width=(9+Math.random()*9)+'px';e.style.height=(12+Math.random()*10)+'px';P.appendChild(e)}}
+var io=new IntersectionObserver(function(es){es.forEach(function(x){if(x.isIntersecting){x.target.classList.add('in');io.unobserve(x.target)}})},{threshold:.12});
 document.querySelectorAll('.rv').forEach(function(x){io.observe(x)});
-var t=new Date('2027-06-12T15:00:00+02:00').getTime(),d=document.getElementById('d'),h=document.getElementById('h'),m=document.getElementById('m');
+var t=new Date('2027-06-12T15:00:00+02:00').getTime(),d=$('d'),h=$('h'),m=$('m');
 function tick(){var s=Math.max(0,Math.floor((t-Date.now())/1000));d.textContent=Math.floor(s/86400);h.textContent=Math.floor(s%86400/3600);m.textContent=Math.floor(s%3600/60)}
 tick();setInterval(tick,30000);
-document.getElementById('f').addEventListener('submit',function(e){e.preventDefault();this.style.display='none';document.getElementById('ok').style.display='block'});
+var menu=$('menu');function tg(o){menu.classList.toggle('on',o)}
+$('mb').addEventListener('click',function(){tg(true)});$('mc').addEventListener('click',function(){tg(false)});
+menu.querySelectorAll('a').forEach(function(a){a.addEventListener('click',function(){tg(false)})});
+var c=$('c');$('mn').addEventListener('click',function(){c.textContent=Math.max(1,+c.textContent-1)});$('pl').addEventListener('click',function(){c.textContent=Math.min(10,+c.textContent+1)});
+$('f').addEventListener('submit',function(e){e.preventDefault();this.style.display='none';$('ok').style.display='block'});
 })();
 </script>
 </body>

diff --git a/index.html b/index.html
@@ -2105,7 +2105,7 @@ setTimeout(function(){if(b.parentNode)b.parentNode.removeChild(b)},900)});
 (function(){var scr=document.getElementById('demo-screen');if(!scr)return;
 var D={
 brahim:{url:'https://braimmariage.netlify.app/',poster:'portfolio-brahim-ouverture.webp',alt:"Page d'ouverture du site de mariage de Brahim et Norhene",ey:'Un site réellement livré',names:'Brahim <em>&amp;</em> Norhene',meta:'Paris · 14 juillet 2025',p:"Invitation qui s'ouvre au toucher, compte à rebours, programme de la soirée, lieu, menu, hébergements et confirmation de présence en ligne. Tout est pensé pour être lu sur téléphone par les invités.",list:["Ouverture animée de l'invitation","Compte à rebours jusqu'au jour J","Programme, lieu, menu, dress code","RSVP en ligne avec message aux mariés"],full:'Voir le site complet',light:false,title:"Démo interactive : site de mariage de Brahim et Norhene"},
-romantique:{url:'exemple-romantique.html',poster:'portfolio-exemple-romantique.webp',alt:"Enveloppe de l'exemple de style romantique",ey:'Exemple de style · couple fictif',names:'Camille <em>&amp;</em> Antoine',meta:'Style clair et romantique',p:"Une maquette pour montrer un autre univers : tons ivoire et rosé, enveloppe à cacheter, script élégant. Votre site reprend vos couleurs, vos textes et votre ambiance.",list:["Enveloppe à cachet, lettre qui en sort","Pétales, rameaux et compte à rebours","Programme et lieu sur mesure","RSVP prêt à recevoir les réponses"],full:"Ouvrir l'exemple",light:true,title:"Démo interactive : exemple de style romantique"}};
+romantique:{url:'exemple-romantique.html',poster:'portfolio-exemple-romantique.webp',alt:"Enveloppe de l'exemple de style romantique",ey:'Exemple de style · couple fictif',names:'Camille <em>&amp;</em> Antoine',meta:'Style clair et romantique',p:"Une maquette complète pour montrer un autre univers : ivoire, rosé et vert sauge, enveloppe à cacheter, programme, lieu, menu, dress code, hébergements et RSVP. Votre site reprend vos couleurs, vos textes et votre ambiance.",list:["Enveloppe à cachet, lettre qui en sort","Compte à rebours, programme en frise","Lieu, menu, dress code, hébergements","RSVP avec nombre de personnes"],full:"Ouvrir l'exemple",light:true,title:"Démo interactive : exemple de style romantique"}};
 var cur='brahim',loaded=false;
 var $=function(i){return document.getElementById(i)};
 function reset(){var f=scr.querySelector('iframe');if(f)f.remove();loaded=false;
